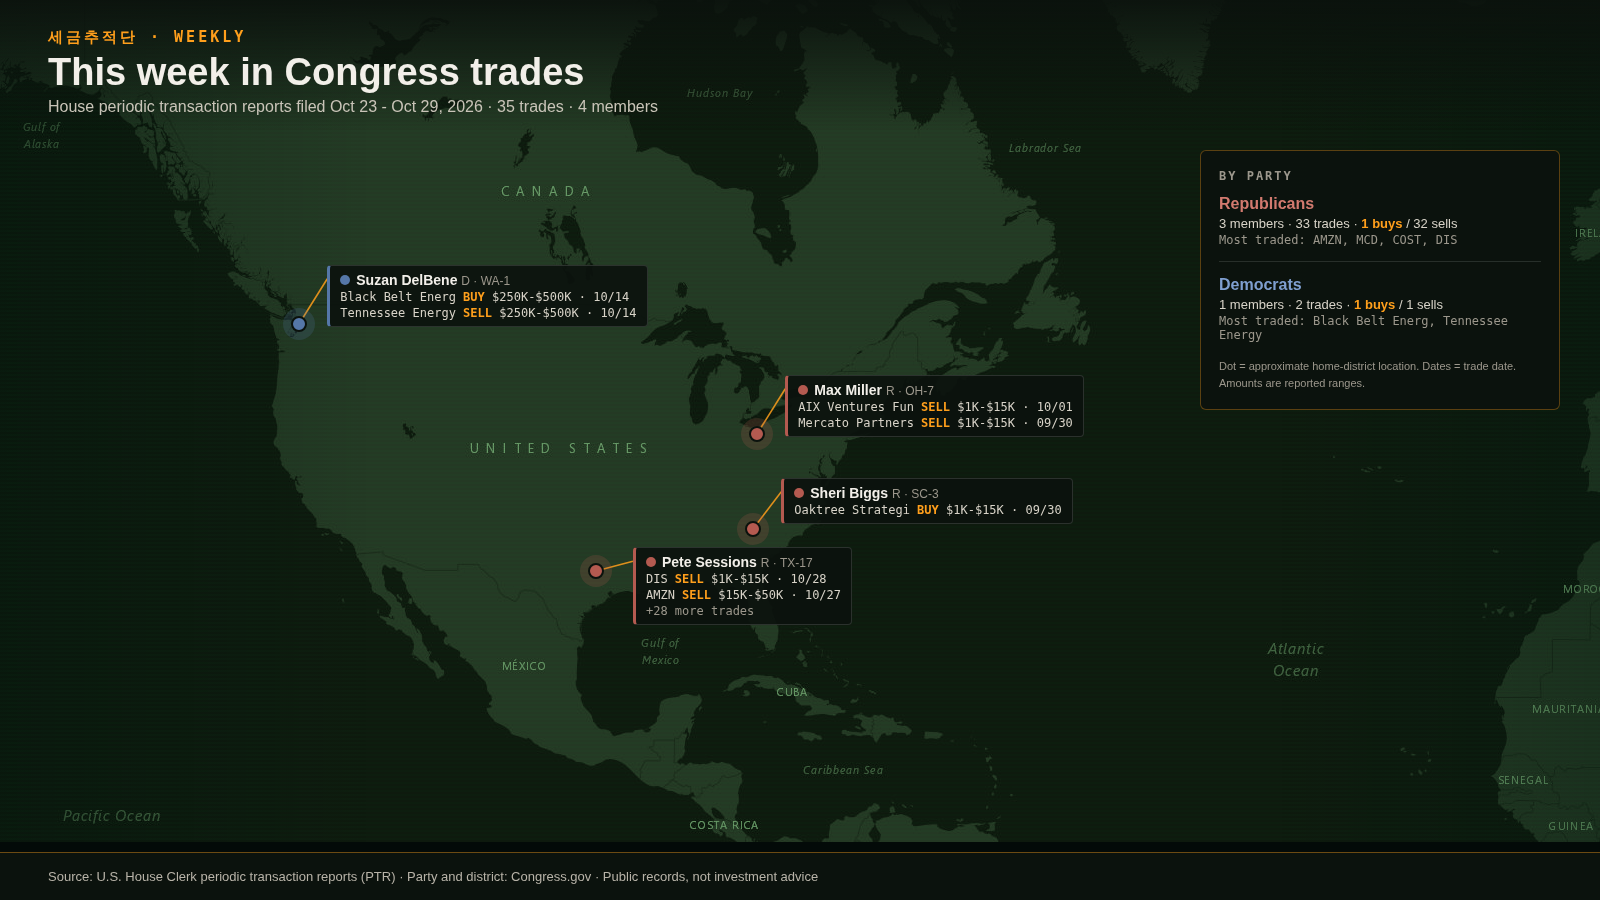
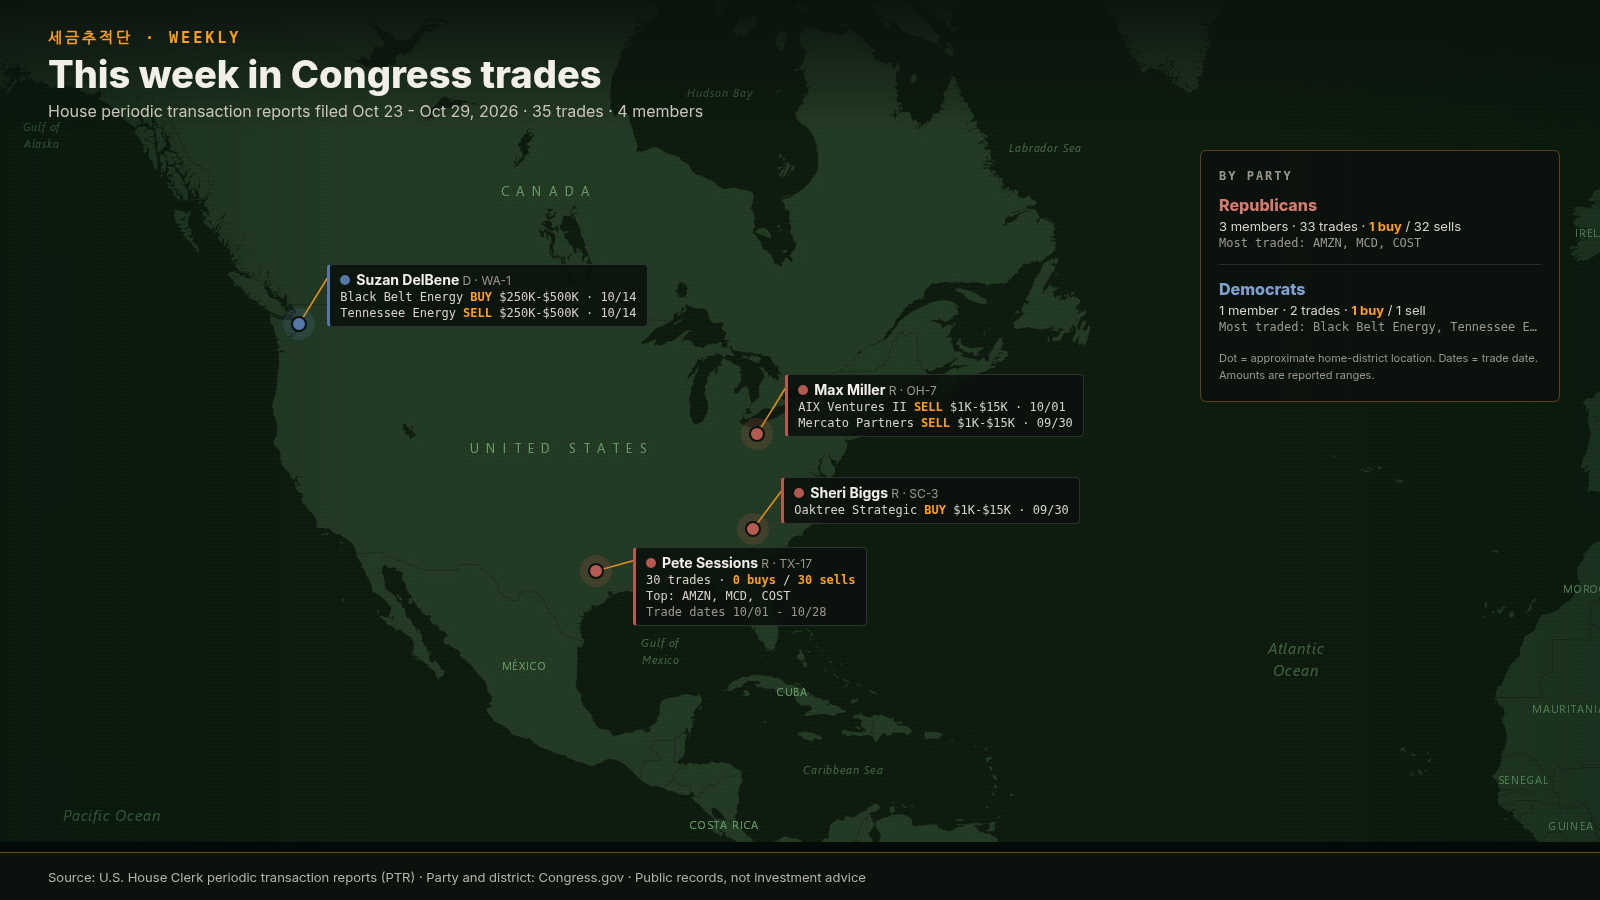
weekly card: plurals, word-boundary asset names, collapse busy members, no wrapping in side box

diff --git a/scripts/weekly/overlay.js b/scripts/weekly/overlay.js
@@ -31,8 +31,8 @@
    <div style="font-size:38px;font-weight:800;margin-top:4px">This week in Congress trades</div>
    <div style="font-size:16px;color:#c9c4b8;margin-top:4px">${esc(a.sub)}</div></div>`;
   const sum = (P, label) => { const s = a.s[P]; return `<div style="font-size:16px;font-weight:800;color:${col(P) === RED ? "#d27a6f" : "#7f9fd0"}">${label}</div>
-   <div style="font-size:13px;color:#d8d3c8;margin-top:3px">${s.m} members · ${s.n} trades · <b style="color:${OR}">${s.b} buys</b> / ${s.s} sells</div>
-   <div style="font:12px ui-monospace,Menlo,monospace;color:#9c978c;margin-top:2px">Most traded: ${esc(s.top.join(", ") || "none")}</div>`; };
+   <div style="font-size:13px;color:#d8d3c8;margin-top:3px">${s.m} ${s.m === 1 ? "member" : "members"} · ${s.n} ${s.n === 1 ? "trade" : "trades"} · <b style="color:${OR}">${s.b} ${s.b === 1 ? "buy" : "buys"}</b> / ${s.s} ${s.s === 1 ? "sell" : "sells"}</div>
+   <div style="font:12px ui-monospace,Menlo,monospace;color:#9c978c;margin-top:2px;white-space:nowrap;overflow:hidden;text-overflow:ellipsis">Most traded: ${esc(s.top.reduce((o, t) => (o.length && (o.join(", ") + ", " + t).length > 36) ? o : (o.length < 3 ? [...o, t] : o), []).join(", ") || "none")}</div>`; };
   html += `<div id="wk-side" style="position:absolute;right:40px;top:150px;width:360px;background:${BG}e6;border:1px solid ${OR}55;border-radius:6px;padding:18px">
    <div style="font:600 12px ui-monospace,Menlo,monospace;letter-spacing:2px;color:#9c978c;margin-bottom:12px">BY PARTY</div>
    ${sum("R", "Republicans")}<div style="height:1px;background:#ffffff1f;margin:14px 0"></div>${sum("D", "Democrats")}
@@ -51,12 +51,21 @@
     const d = document.createElementNS(NS, "circle"); d.setAttribute("cx", x.x); d.setAttribute("cy", x.y); d.setAttribute("r", 7); d.setAttribute("fill", col(x.p)); d.setAttribute("stroke", BG); d.setAttribute("stroke-width", 2); svg.appendChild(d);
   }
   for (const x of pts) {
-    const lines = x.lines.length > 3 ? [...x.lines.slice(0, 2), null] : x.lines;
+    const mono = "font:12px ui-monospace,Menlo,monospace;color:#d8d3c8;margin-top:2px";
+    let body;
+    if (x.lines.length > 3) {
+      const nb = x.lines.filter(l => l.s === "BUY").length, ns = x.lines.filter(l => l.s === "SELL").length;
+      const cnt = {}; x.lines.forEach(l => cnt[l.a] = (cnt[l.a] || 0) + 1);
+      const top = Object.entries(cnt).sort((p, q) => q[1] - p[1]).slice(0, 3).map(e => e[0]).join(", ");
+      const ds = x.lines.map(l => l.d).sort();
+      body = `<div style="${mono}">${x.lines.length} trades · <b style="color:${OR}">${nb} ${nb === 1 ? "buy" : "buys"}</b> / <b style="color:${OR}">${ns} ${ns === 1 ? "sell" : "sells"}</b></div>` +
+        `<div style="${mono}">Top: ${esc(top)}</div><div style="${mono};color:#9c978c">Trade dates ${esc(ds[0])} - ${esc(ds[ds.length - 1])}</div>`;
+    } else {
+      body = x.lines.map(l => `<div style="${mono}">${esc(l.a)} <b style="color:${OR}">${l.s}</b> ${esc(l.amt)} · ${esc(l.d)}</div>`).join("");
+    }
     const card = document.createElement("div");
     card.style.cssText = `position:absolute;left:0;top:0;white-space:nowrap;background:${BG}e8;border:1px solid #ffffff22;border-left:3px solid ${col(x.p)};padding:6px 10px;border-radius:4px`;
-    card.innerHTML = `<div style="font-size:14px;font-weight:700"><span style="display:inline-block;width:10px;height:10px;border-radius:50%;background:${col(x.p)};margin-right:6px"></span>${esc(x.name)} <span style="color:#9c978c;font-weight:400;font-size:12px">${x.p} · ${esc(x.dist)}</span></div>` +
-      lines.map(l => l ? `<div style="font:12px ui-monospace,Menlo,monospace;color:#d8d3c8;margin-top:2px">${esc(l.a)} <b style="color:${OR}">${l.s}</b> ${esc(l.amt)} · ${esc(l.d)}</div>`
-        : `<div style="font:12px ui-monospace,Menlo,monospace;color:#9c978c;margin-top:2px">+${x.lines.length - 2} more trades</div>`).join("");
+    card.innerHTML = `<div style="font-size:14px;font-weight:700"><span style="display:inline-block;width:10px;height:10px;border-radius:50%;background:${col(x.p)};margin-right:6px"></span>${esc(x.name)} <span style="color:#9c978c;font-weight:400;font-size:12px">${x.p} · ${esc(x.dist)}</span></div>` + body;
     W.appendChild(card);
     const cw = card.offsetWidth, ch = card.offsetHeight;
     let best = null;

diff --git a/scripts/weekly/congress_trades_card.py b/scripts/weekly/congress_trades_card.py
@@ -66,8 +66,15 @@ def short_asset(t):
     a = t.get("asset") or "Asset"
     if "Treasury" in a or "T-Bill" in a or "US Treas" in a:
         return "T-Bill" if "Bill" in a else "T-Note" if "Note" in a else "Treasury"
-    a = a.split(" - ")[0].replace(" LLC", "").replace(" Inc.", "").replace(" Corporation", "")
-    return a[:16].rstrip()
+    a = a.split(" - ")[0].split(" (")[0]
+    for suf in (" LLC", " L.P.", " LP", " Inc.", " Inc", " Corporation", " Corp.", " Co.", " Fund", " Holdings"):
+        a = a.replace(suf, "")
+    out = ""
+    for w in a.split():
+        if len(out) + len(w) + (1 if out else 0) > 18:
+            break
+        out = f"{out} {w}".strip()
+    return (out or a[:18]).rstrip(",;:.-& ")
 
 
 def amt(a):
